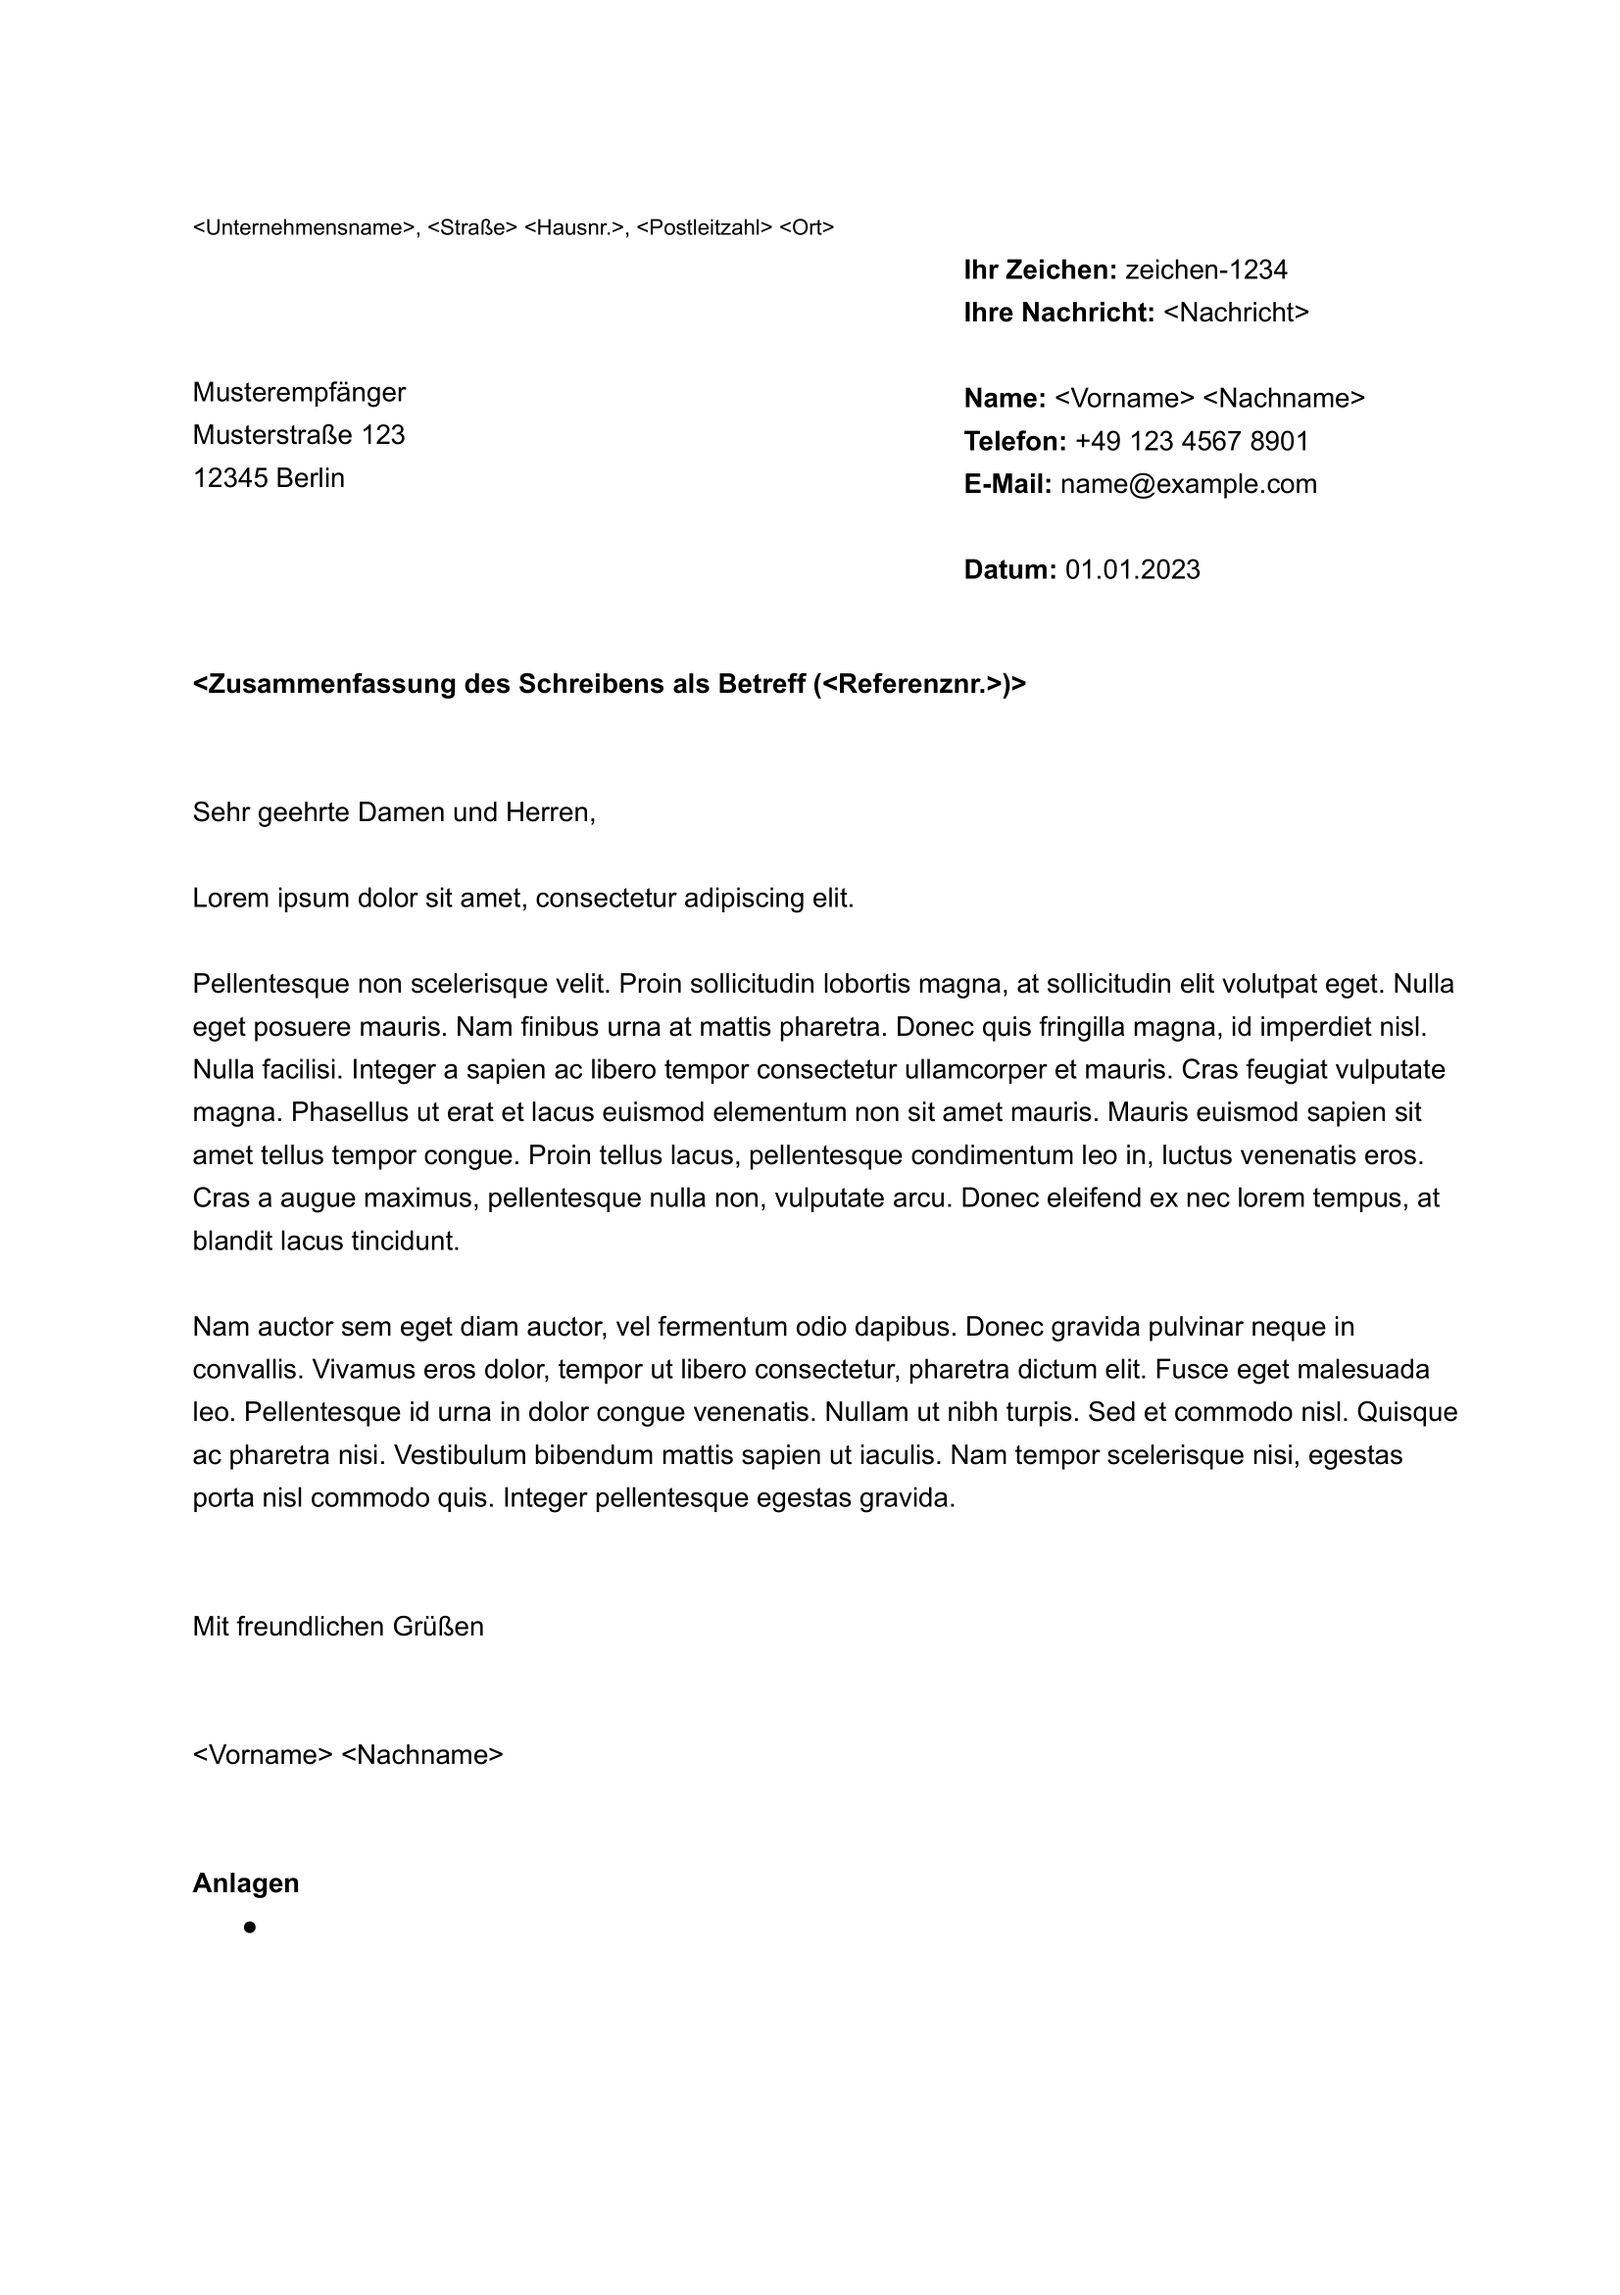
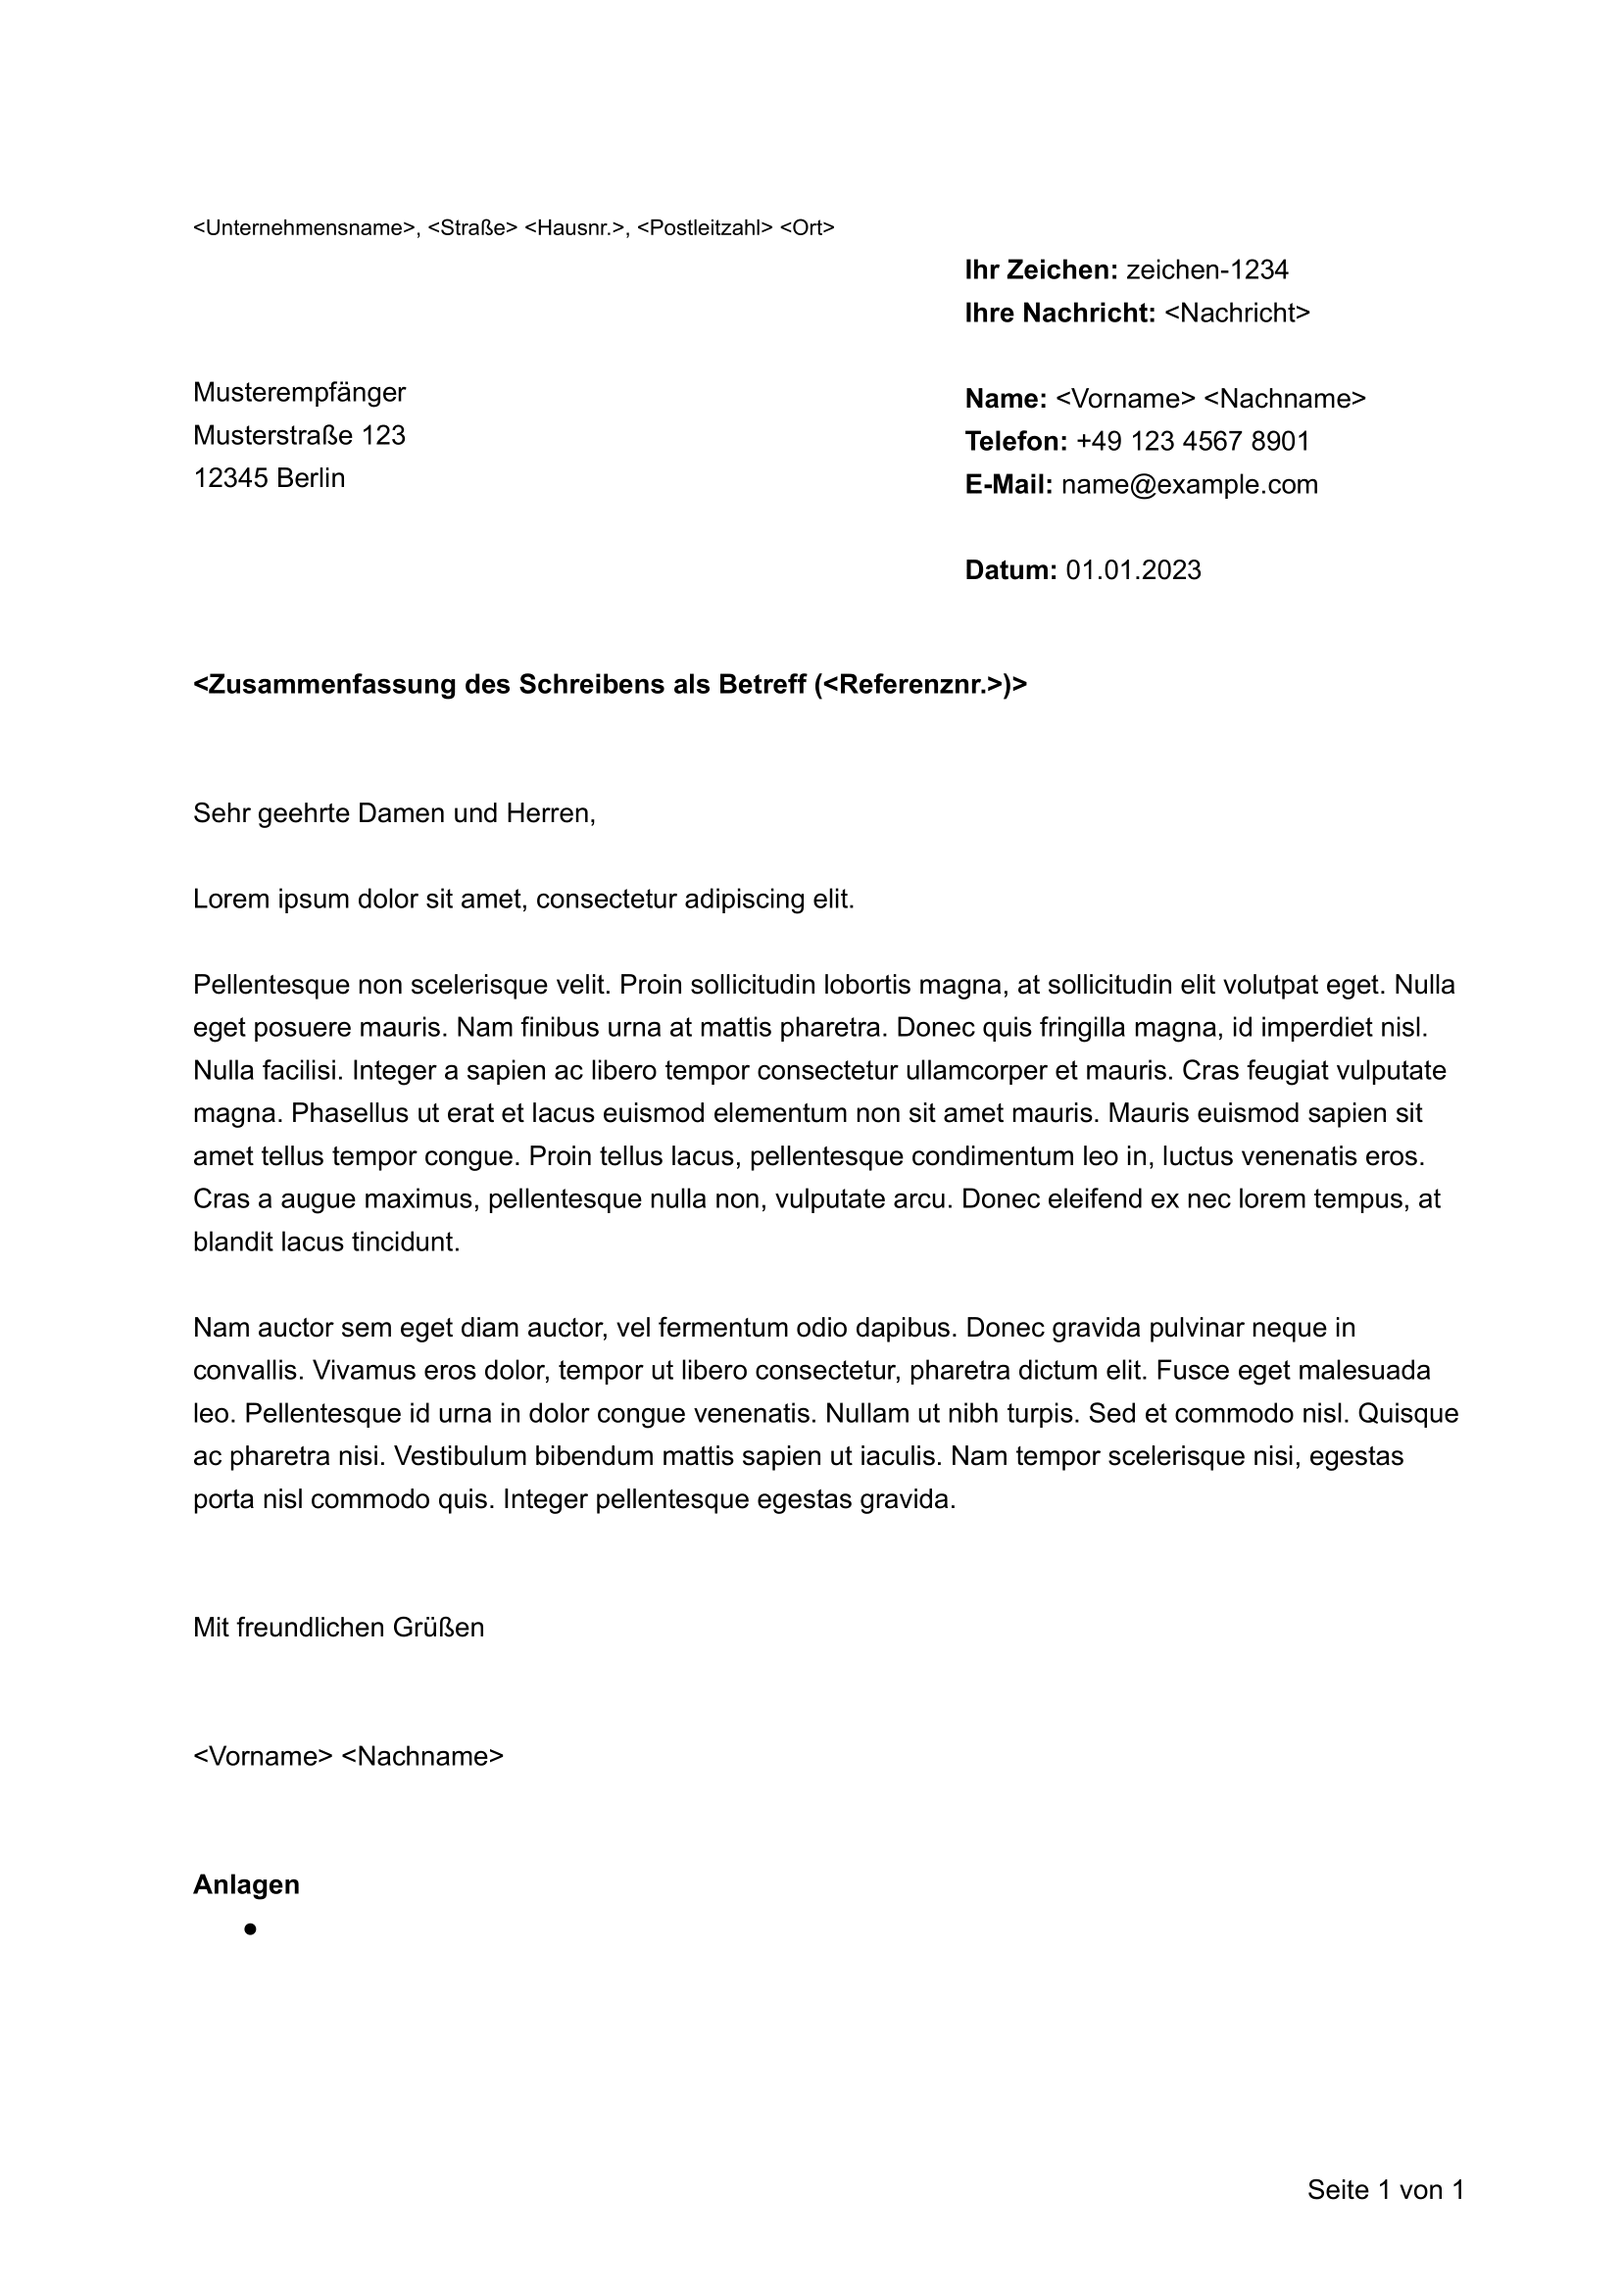
Work

diff --git a/pages/herunterladen-unternehmen-ej2h3k12j3.html b/pages/herunterladen-unternehmen-ej2h3k12j3.html
@@ -36,21 +36,21 @@
           <ul>
             <li>
               <a
-                href="https://docs.google.com/document/d/1pJ9snk8Nk2qWKEZH_wG7XOaLwH9D4TZrLpaiyo4crT4/copy?usp=sharing"
+                href="https://docs.google.com/document/d/1pSzBLD4LfwIMHnPnzDSbt5-o6Vqvl5jCuLBqgES1RHQ/copy?usp=sharing"
                 target="_blank"
                 >Google Docs</a
               >
             </li>
             <li>
               <a
-                href="https://docs.google.com/document/d/1pJ9snk8Nk2qWKEZH_wG7XOaLwH9D4TZrLpaiyo4crT4/export?format=doc"
+                href="https://docs.google.com/document/d/1pSzBLD4LfwIMHnPnzDSbt5-o6Vqvl5jCuLBqgES1RHQ/export?format=doc"
                 target="_blank"
                 >Microsoft Word Dokument</a
               >
             </li>
             <li>
               <a
-                href="https://docs.google.com/document/d/1pJ9snk8Nk2qWKEZH_wG7XOaLwH9D4TZrLpaiyo4crT4/export?format=odt"
+                href="https://docs.google.com/document/d/1pSzBLD4LfwIMHnPnzDSbt5-o6Vqvl5jCuLBqgES1RHQ/export?format=odt"
                 target="_blank"
                 >Open Document Format</a
               >

diff --git a/functions/src/sendProduct.ts b/functions/src/sendProduct.ts
@@ -126,7 +126,7 @@ const data = {
     },
     business: {
       subject: "Geschäftsbrief Vorlage für Unternehmen (DIN 5008)",
-      documentID: "1pJ9snk8Nk2qWKEZH_wG7XOaLwH9D4TZrLpaiyo4crT4",
+      documentID: "1pSzBLD4LfwIMHnPnzDSbt5-o6Vqvl5jCuLBqgES1RHQ",
       licenseURL:
         "https://letter-template.sanjo-solutions.com/Lizenz_Geschaeftlich.txt",
       generateText: generateTextGerman,

diff --git a/notes.md b/notes.md
@@ -1,4 +1,13 @@
-* Möglichkeit, dass sich Kunden für eine Benachrichtigung für Aktualisierungen via E-Mail anmelden können.
+* [ ] Möglichkeit, dass sich Kunden für eine Benachrichtigung für Aktualisierungen via E-Mail anmelden können.
   * Vielleicht mit MailChimp
-* Link zur Download-Seite in die E-Mail mit einfügen.
+    * Benötigt AV-Vertrag? (Hat die AGB von MailChimp das?)
+  * Ist es notwendig, die Datenschutzerklärung um die Verwendung der E-Mail-Adresse für den Versand von Informationen bzgl. Aktualisierungen zu erweitern?
+* [ ] Link zur Download-Seite in die E-Mail mit einfügen.
 * Geschäftsbrief zu "Formaler Brief" umbenennen?
+* [ ] Seitenzahl auf englischer Version hinzufügen.
+* [ ] Seitenzahl auf Versionen für Unternehmen hinzufügen.
+  * [ ] Deutsche Version
+  * [ ] Englische Version
+* Lochmarkierung?
+* Faltmarken?
+* [ ] Texte auf Englischer Seite, wie auf deutscher Seite
